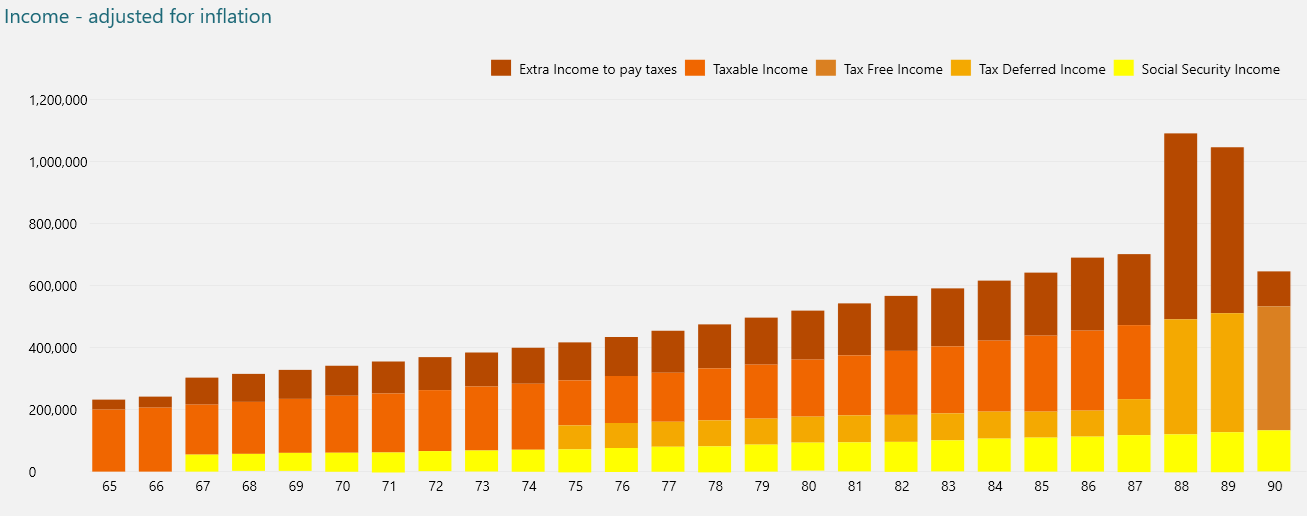
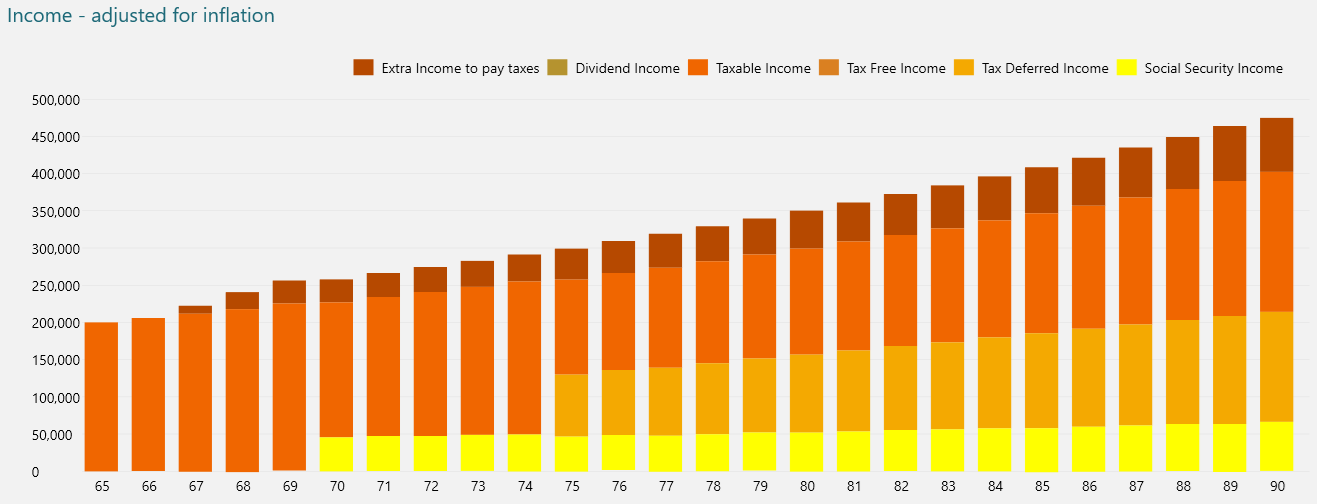
Update docs for retirement report.

diff --git a/docs/Reports/RetirementPlanReport.md b/docs/Reports/RetirementPlanReport.md
@@ -17,11 +17,11 @@ Then you will see the following if you started with:
 
 The first part of the report shows a summary of assets remaining at the end date (in this case age 90):
 
-- Assets remaining at age 90 = $6,777,737
-- Taxable assets = 0
-- Tax deferred assets = 0
-- Tax free assets = $6,777,737
-- Total taxes paid during retirement = $2,016,593
+- Assets remaining at age 90	$9,029,134
+    - Taxable assets	$229,093
+    - Tax deferred assets	$1,660,061
+    - Tax free assets	$7,139,981
+- Total taxes paid during retirement	$1,162,461
 
 And then it shows some charts, the first one is a chart showing how each class of asset grows and/or is drawn down over
 the years as follows:
@@ -32,12 +32,16 @@ You can see here the retirement planner prefers not to use tax free assets, as t
 
 The next chart shows where your retirement income is coming from, with different color bars for different types of
 income. The darker brown bar is the additional income you need to take in order to pay the necessary taxes.
+The report can estimate dividend income too if you have some of that in your portfolio.
 
 ![retirement income](../Images/RetirementIncome.png)
 
 This shows that you start off tapping into taxable assets until age 75 when required minimum distribution kicks in on
-your tax deferred accounts.
-Then by 88 the taxable account is empty and you have to take more from your tax deferred assets which causes a jump in taxes because those are taxed as income.
+your tax deferred accounts. Social security also kicks in at age 70 since that is what we configured in the settings.
+It is often interesting to play with your social security age, waiting till 70 is not always the best strategy.  You may
+find that starting at 62 results in higher networth. Even though the social security amount is usually a lot lower at
+62, that income means you have to sell fewer assets to make up your desired income and usually those assets are growing
+faster than the social security income does.  The Cost of Living adjustment on Social Security income is a tiny 2.5%. You should try the numbers for 62, 67 and 70 and see which one wins.
 
 The next chart shows how much tax you had to pay each year, which is paid from your retirement funds also:
 
@@ -46,14 +50,12 @@ The next chart shows how much tax you had to pay each year, which is paid from y
 Here you normally see a jump in taxes when any Tax Deferred account required minimum distributions (RMD's) kick in or
 when you enter a new tax bracket. Retirement planning is often about managing those tax brackets.
 
-The final chart runs a Roth conversion simulation passing in diffferent years to implement the roth conversion from 0 (no conversion which we have above) out to 15 years, plotting the networth at age 90 and the total tax paid over each simulation. as follows:
+The final chart runs a Roth conversion simulation passing in different years to implement the roth conversion from 0 (no conversion which we have above) out to 15 years, plotting the networth at age 90 and the total tax paid over each simulation. as follows:
 
 ![retirement roth](../Images/RetirementRoth.png)
 
 This can help you figure out the optimal roth conversion strategy to maximize assets
-and minimize taxes.  In this case the plot shows that minimal taxes happen with a
-11 year conversion, but the maximum net worth happens with a 15 year conversion which shows that just minimizing taxes is not always the best
-strategy.
+and minimize taxes.  In this case a Roth conversion will not help you, you get the highest networth by doing nothing.
 
 You can then plug these numbers into the settings panel here:
 
@@ -61,8 +63,8 @@ You can then plug these numbers into the settings panel here:
 
 And see the details as the report updates.
 
-Roth strategy is complicated and you will not always see these benefits. It depends on your situation.  In this case the
-Roth conversion probably helps by reducing any additional taxes incurred by RMD's. The Roth conversion is also great for
+Roth strategy is complicated and you will not always see this result. It depends on your situation.  A Roth conversion
+can help by reducing any additional taxes incurred by RMD's. The Roth conversion is also great for
 estate planning as tax free accounts do not pass on a tricky tax burden to your beneficiaries.
 
 But before settling on a Roth strategy you should also experiment with different returns on investment rates.  You will
